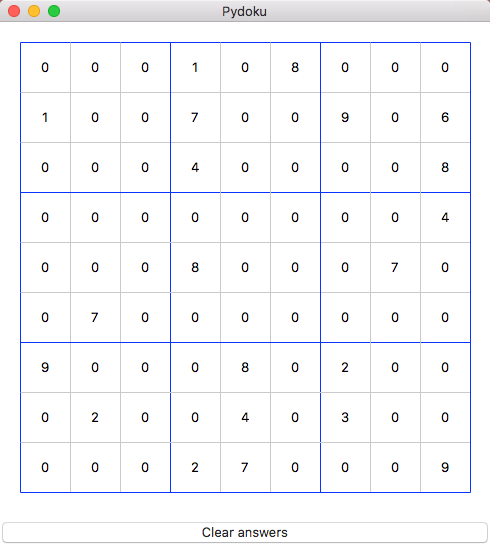
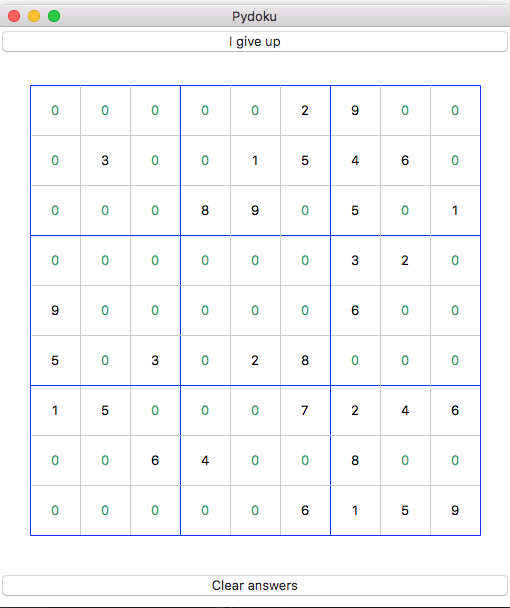
Added new, open, and save features

diff --git a/pydoku.py b/pydoku.py
@@ -7,22 +7,25 @@
 import argparse
 import random
 from copy import deepcopy
-from tkinter import Tk, Canvas, Frame, Button, BOTH, TOP, BOTTOM
+from tkinter import Tk, Canvas, Frame, Button, BOTH, TOP, BOTTOM, Menu, filedialog
+from tkinter.filedialog import asksaveasfile
 
 import numpy as np
 
 BOARDS = ['debug', 'easy', 'hard', 'error', 'etc...']  # Available sudoku boards
 DIFFICULTIES = ['easy', 'medium', 'hard']
-MARGIN = 20  # Pixels around the board
+MARGIN = 30  # Pixels around the board
 SIDE = 50  # Width of every board cell.
 WIDTH = HEIGHT = MARGIN * 2 + SIDE * 9  # Width and height of the whole board
 
 
 class SudokuError(Exception):
-    """
-    An application specific error.
-    """
-    pass
+    def __init__(self, *args):
+        Exception.__init__(self, *args)
+        self.value = args[0]
+
+    def __str__(self):
+        return self.value.encode('string_escape')
 
 
 def parse_arguments():
@@ -60,23 +63,49 @@ class SudokuUI(Frame):
 
     def __init__(self, parent, game):
         self.game = game
+        self.game.start()
         Frame.__init__(self, parent)
         self.parent = parent
-
         self.row, self.col = -1, -1
-
         self.__initUI()
+
+    def new_board(self, board=None, difficulty='easy'):
+        print('Creating new board with difficulty of {}'.format(difficulty))
+        self.game = SudokuGame(board, difficulty)
+        self.game.start()
+        self.row, self.col = -1, -1
+        Frame.destroy(self)
+        Frame.__init__(self, self.parent)
+        self.__initUI()
+
+    def open_board(self):
+        f = filedialog.askopenfilename()
+        if f is not None:
+            self.new_board(open(f, 'r'))
+            if self.game.board.checkWin():
+                self.__draw_victory()
+
+    def save_board(self):
+        f = asksaveasfile(mode='w', defaultextension=".board")
+        if f is not None:
+            board = self.game.board.serialize()
+            f.write(board)
+            f.close()
+
+    def give_up(self):
+        self.game.board.board = self.game.board.solved_board
+        self.__draw_puzzle()
+        self.__draw_loss()
+
 
     def __initUI(self):
         self.parent.title("Pydoku")
         self.pack(fill=BOTH)
-        self.canvas = Canvas(self,
-                             width=WIDTH,
-                             height=HEIGHT)
+        give_up_button = Button(self, text="I give up", command=self.give_up)
+        give_up_button.pack(fill=BOTH, side=TOP)
+        self.canvas = Canvas(self, width=WIDTH, height=HEIGHT)
         self.canvas.pack(fill=BOTH, side=TOP)
-        clear_button = Button(self,
-                              text="Clear answers",
-                              command=self.__clear_answers)
+        clear_button = Button(self, text="Clear answers", command=self.__clear_answers)
         clear_button.pack(fill=BOTH, side=BOTTOM)
 
         self.__draw_grid()
@@ -84,6 +113,21 @@ class SudokuUI(Frame):
 
         self.canvas.bind("<Button-1>", self.__cell_clicked)
         self.canvas.bind("<Key>", self.__key_pressed)
+
+        """ 
+        Add menu items to the parent 
+        """
+        menu = Menu(root)
+        file_menu = Menu(menu)
+        difficulty_options = Menu(file_menu)
+        difficulty_options.add_command(label='Easy', command=lambda: self.new_board(None, 'easy'))
+        difficulty_options.add_command(label='Medium', command=lambda: self.new_board(None, 'medium'))
+        difficulty_options.add_command(label='Hard', command=lambda: self.new_board(None, 'hard'))
+        file_menu.add_cascade(label="New", menu=difficulty_options)
+        file_menu.add_command(label="Open", command=self.open_board)
+        file_menu.add_command(label="Save", command=self.save_board)
+        menu.add_cascade(label="File", menu=file_menu)
+        self.parent.config(menu=menu)
 
     def __draw_grid(self):
         """
@@ -136,13 +180,29 @@ class SudokuUI(Frame):
         x1 = y1 = MARGIN + SIDE * 7
         self.canvas.create_oval(
             x0, y0, x1, y1,
-            tags="victory", fill="dark orange", outline="orange"
+            tags="victory", fill="green", outline="orange"
         )
         # create text
         x = y = MARGIN + 4 * SIDE + SIDE / 2
         self.canvas.create_text(
             x, y,
             text="You win!", tags="victory",
+            fill="white", font=("Arial", 32)
+        )
+
+    def __draw_loss(self):
+        # create a oval (which will be a circle)
+        x0 = y0 = MARGIN + SIDE * 2
+        x1 = y1 = MARGIN + SIDE * 7
+        self.canvas.create_oval(
+            x0, y0, x1, y1,
+            tags="loss", fill="red", outline="red"
+        )
+        # create text
+        x = y = MARGIN + 4 * SIDE + SIDE / 2
+        self.canvas.create_text(
+            x, y,
+            text="You Lose!\n      =(", tags="loss",
             fill="white", font=("Arial", 32)
         )
 
@@ -182,6 +242,7 @@ class SudokuUI(Frame):
     def __clear_answers(self):
         self.game.start()
         self.canvas.delete("victory")
+        self.canvas.delete("loss")
         self.__draw_puzzle()
 
 
@@ -190,12 +251,12 @@ class SudokuBoard(object):
     Sudoku Board representation
     """
 
-    def __init__(self, board_file="None.sudoku", difficulty="easy"):
-        if board_file.name == "./boards/None.sudoku":
+    def __init__(self, board_file, difficulty="easy"):
+        if not board_file:
             self.board = self.generateBoard()
             while not self.checkWin():
                 self.board = self.generateBoard()
-
+            self.solved_board = deepcopy(self.board)
             self.makeHoles(difficulty)
         else:
             self.board = self.__create_from_file(board_file)
@@ -350,14 +411,23 @@ class SudokuBoard(object):
 
                 squaresLeft -= 1
 
-    def printBoard(self):
-        '''Prints out a sudoku in a format that is easy for a human to read'''
+    def serialize_matrix(self, board):
+        '''Converts board to a 9x9 numpy matrix'''
         rows = [[0 for i in range(9)] for j in range(9)]
         for i in range(9):
             for j in range(9):
-                rows[i][j] = (self.board[i][j].answer)
+                rows[i][j] = (board[i][j].answer)
+        return rows
 
-        print(np.matrix(rows))
+    def serialize(self):
+        '''Converts 9x9 numpy matrix board to a string that can be written to a file'''
+        return '\n'.join([''.join(map(str, i)) for i in self.serialize_matrix(self.board)])
+
+    def printBoard(self, board):
+        '''Prints out a sudoku in a format that is easy for a human to read'''
+        print(np.matrix(self.serialize_matrix(board)))
+
+
 
 
 class SudokuGame(object):
@@ -366,7 +436,7 @@ class SudokuGame(object):
     whether the puzzle is completed.
     """
 
-    def __init__(self, board_file="./boards/None.sudoku", difficulty="easy"):
+    def __init__(self, board_file, difficulty="easy"):
         self.board_file = board_file
         self.board = SudokuBoard(board_file, difficulty)
         self.start_puzzle = deepcopy(self.board.board)
@@ -419,15 +489,12 @@ class Cell(object):
     def __str__(self):
         return '{}'.format(self.answer)
 
-
 if __name__ == '__main__':
     args = parse_arguments()
-    board_name = args[0] if args[0] else 'None'
+    board_name = args[0] if args[0] else None
     difficulty = args[1] if args[1] else 'easy'
-    with open('./boards/%s.sudoku' % board_name, 'r') as boards_file:
-        game = SudokuGame(board_file=boards_file, difficulty=difficulty)
-        game.start()
-        root = Tk()
-        SudokuUI(root, game)
-        root.geometry("%dx%d" % (WIDTH, HEIGHT + 40))
-        root.mainloop()
+    game = SudokuGame(board_name, difficulty)
+    root = Tk()
+    SudokuUI(root, game)
+    root.geometry("%dx%d" % (WIDTH, HEIGHT + 70))
+    root.mainloop()
